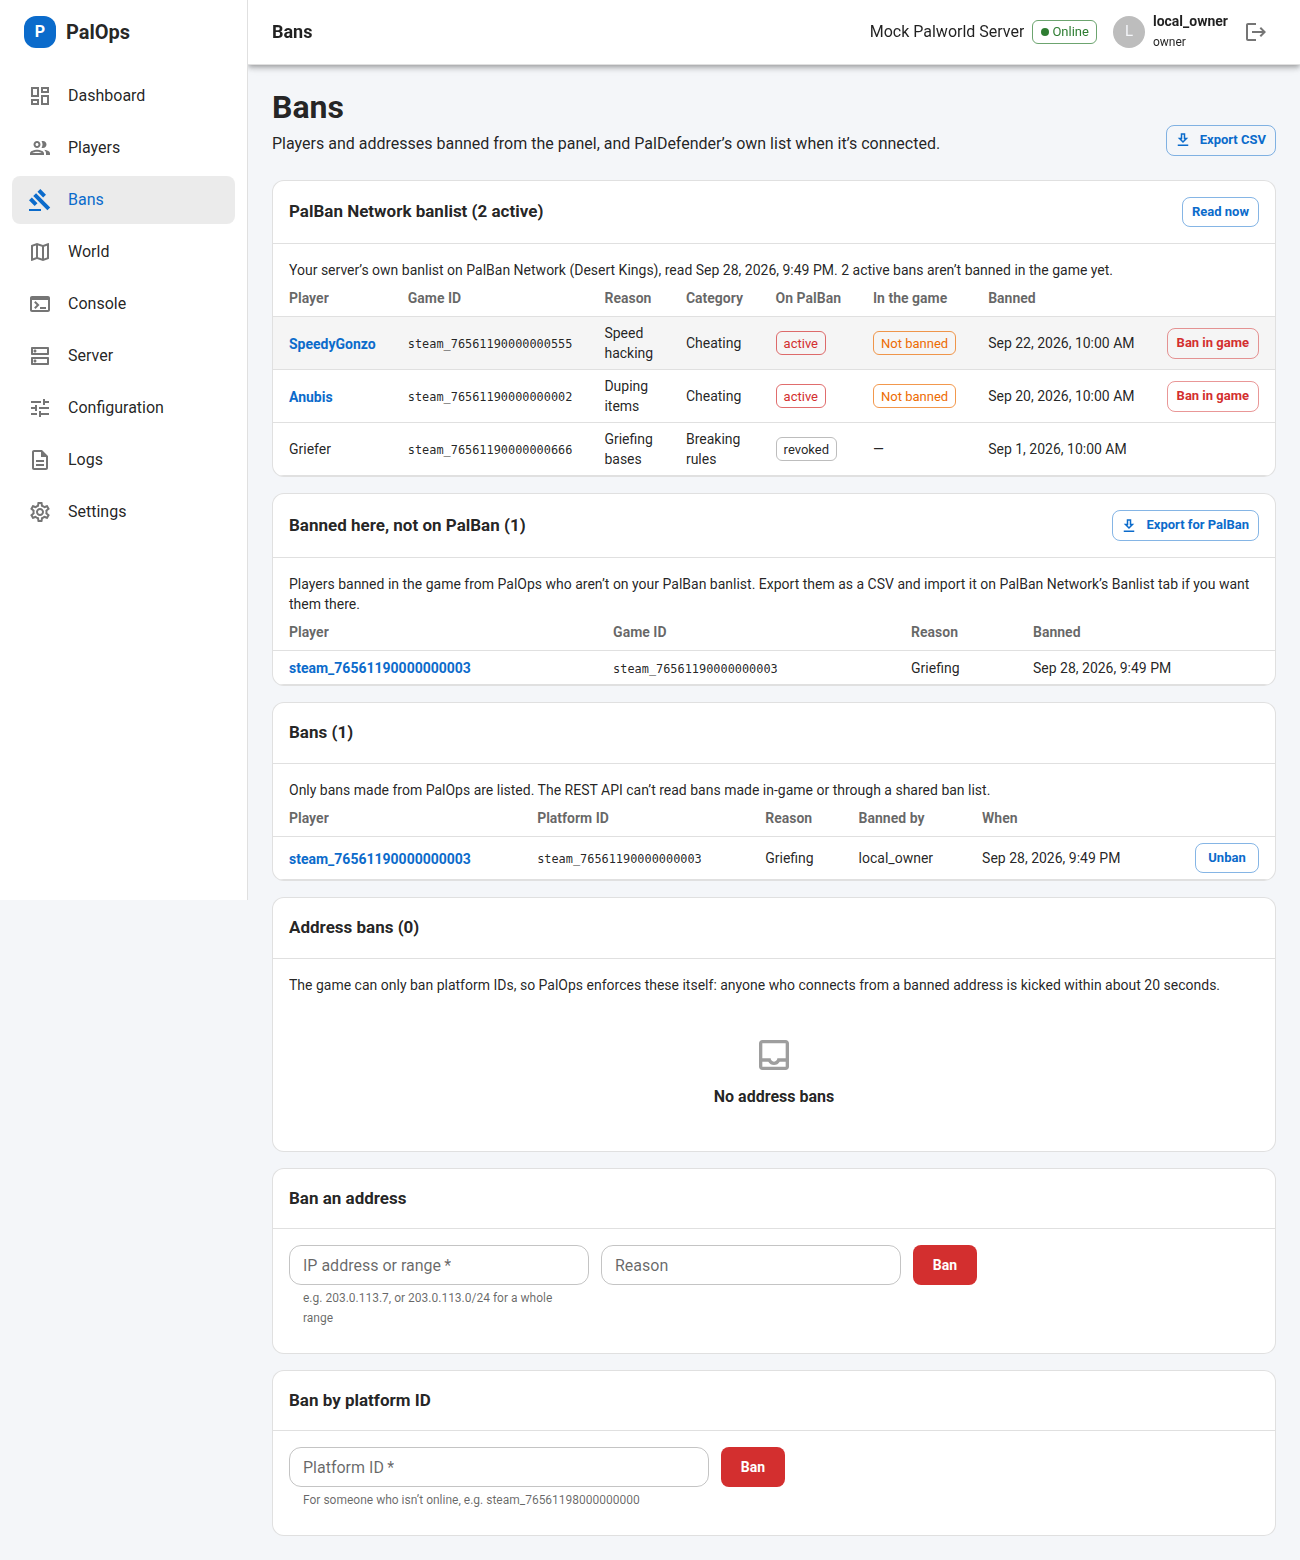
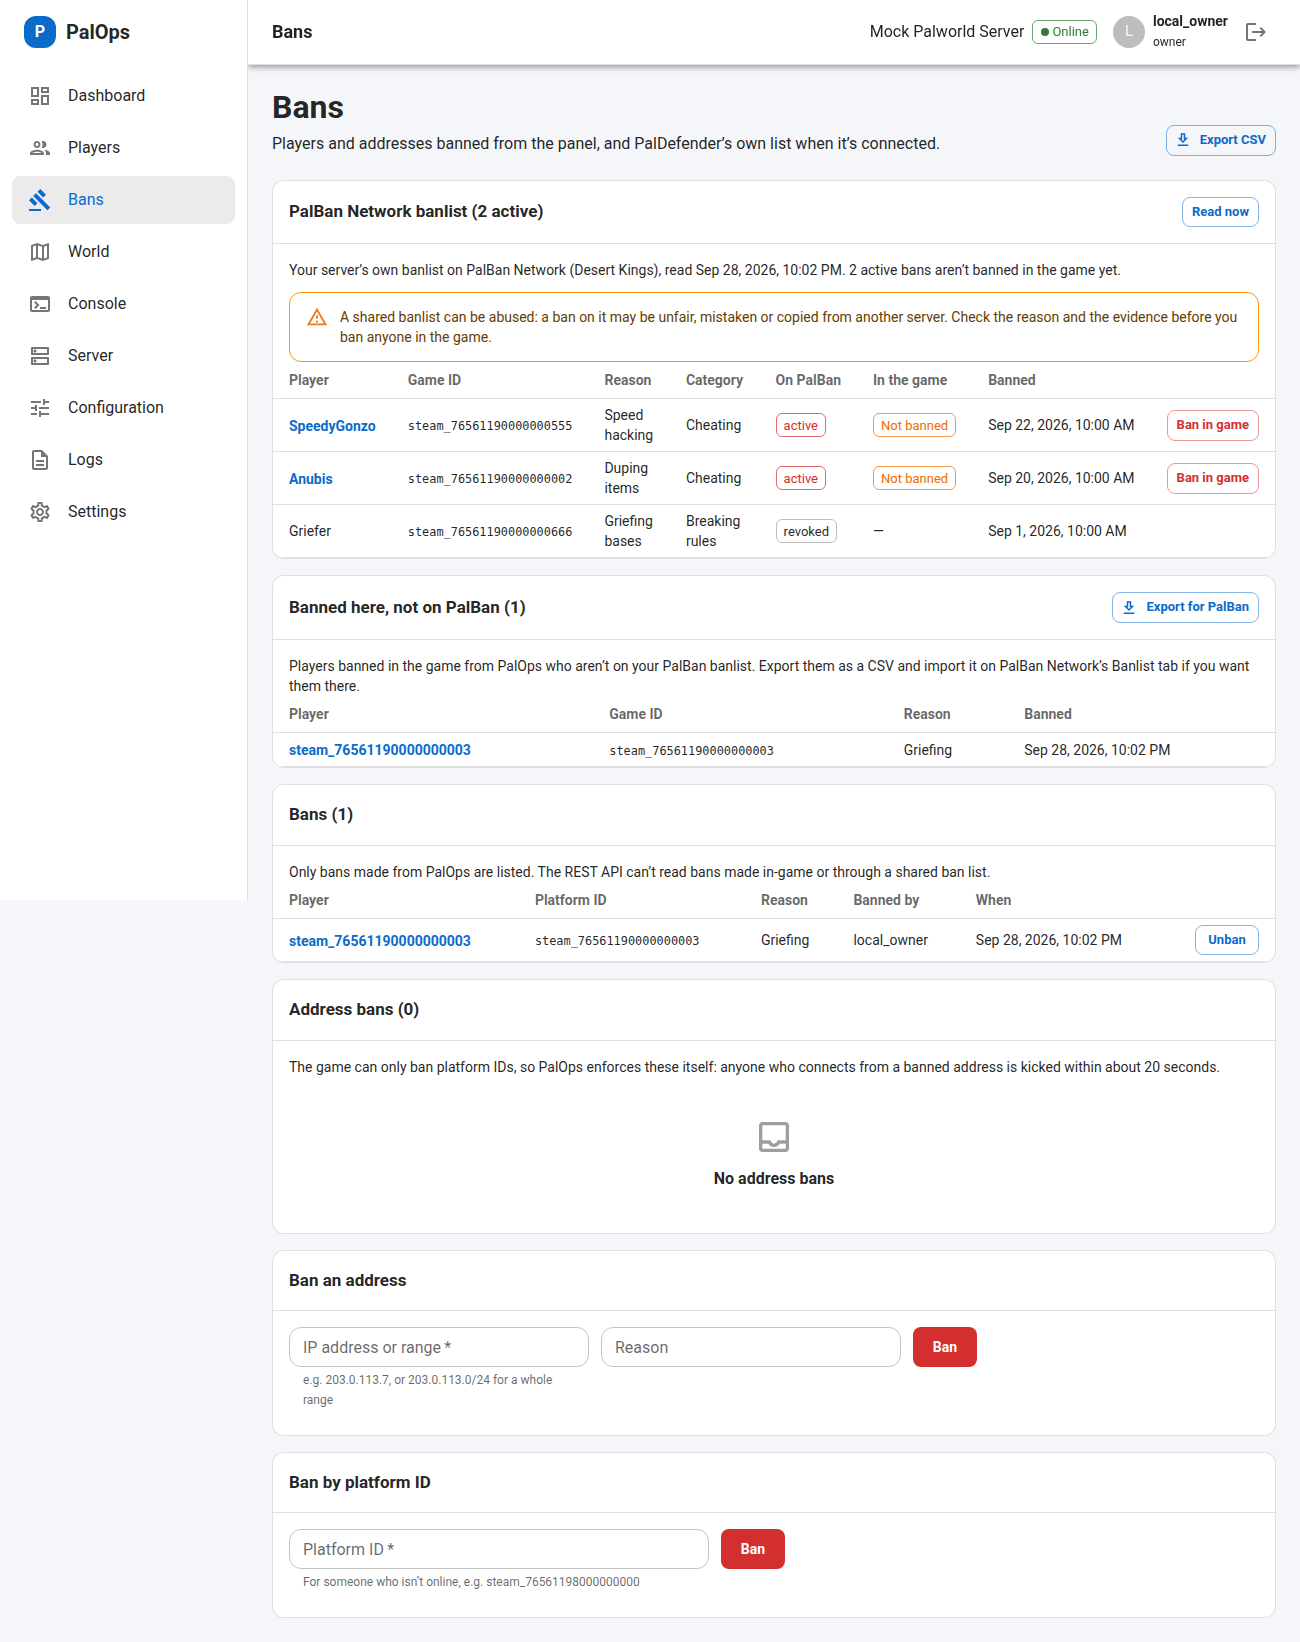
PalBan: say the risks of a shared banlist on the settings page, the Bans page and in the docs
A shared banlist can be abused, and whoever controls one has power over many
servers. Screenshots refreshed, plus PalBan Network's log import and notices.

Claude-Session: https://claude.ai/code/session_01PZSua6b83DqNc5gQ83ZFjQ

diff --git a/web/src/components/PalBan.tsx b/web/src/components/PalBan.tsx
@@ -1,4 +1,5 @@
 import Alert from '@mui/material/Alert';
+import AlertTitle from '@mui/material/AlertTitle';
 import Button from '@mui/material/Button';
 import Chip from '@mui/material/Chip';
 import Divider from '@mui/material/Divider';
@@ -19,6 +20,30 @@ import { DataTable } from './DataTable';
 import { EmptyState, ErrorState, Loading, Mono, Section } from './common';
 import { ExportButton, PlayerName } from './PlayerBits';
 import { useToast } from './Toast';
+
+/** What a shared banlist gets wrong or can be used for; said wherever PalBan bans are shown. */
+function PalBanRisks({ compact = false }: { compact?: boolean }) {
+  if (compact) {
+    return (
+      <Alert severity="warning" variant="outlined" sx={{ mx: 2, mt: 1.5 }}>
+        A shared banlist can be abused: a ban on it may be unfair, mistaken or copied from another server. Check the reason and the evidence before you ban anyone in the game.
+      </Alert>
+    );
+  }
+  return (
+    <Alert severity="warning" variant="outlined">
+      <AlertTitle>Know the risks of a shared banlist</AlertTitle>
+      <ul style={{ margin: 0, paddingLeft: 18 }}>
+        <li>It can be abused. Anyone with access to a team can add a ban that is unfair or built on false evidence, and if other teams copy it, that player can be locked out of servers that never looked into it.</li>
+        <li>
+          Whoever controls a shared list has power over it. A single party running one could lock a person out of many servers at will. That is why nothing here happens by itself: a ban on PalBan only becomes a ban in the game
+          when someone on your team confirms it.
+        </li>
+        <li>A ban or report from another server is a lead, never proof. Check the reason and the evidence, and hear the player out, before you act on it.</li>
+      </ul>
+    </Alert>
+  );
+}
 
 interface Form {
   enabled: boolean;
@@ -81,6 +106,7 @@ export function PalBanSettingsTab() {
               PalBan Network is a shared banlist for Palworld servers. Switch this on to compare your server’s PalBan banlist with what is banned in the game, see what other servers
               found about a player, and let PalBan know about joins and bans made here. Nothing is banned because another server did: reports are leads for your team to review.
             </Typography>
+            <PalBanRisks />
             <FormControlLabel control={<Switch checked={form.enabled} onChange={(e) => setForm({ ...form, enabled: e.target.checked })} />} label="Use PalBan Network" />
             <TextField label="PalBan Network address" placeholder="https://palban.net" value={form.baseUrl} onChange={(e) => setForm({ ...form, baseUrl: e.target.value })} required />
             <TextField
@@ -172,6 +198,7 @@ export function PalBanBans({ onOpen }: { onOpen: (userId: string) => void }) {
           Your server’s own banlist on PalBan Network{status.serverName ? ` (${status.serverName})` : ''}
           {status.lastSyncAt ? `, read ${formatDateTime(status.lastSyncAt)}` : ''}. {status.notInGame > 0 ? `${status.notInGame} active ${status.notInGame === 1 ? 'ban isn’t' : 'bans aren’t'} banned in the game yet.` : 'Everything active is banned in the game.'}
         </Typography>
+        <PalBanRisks compact />
         {status.error && (
           <Alert severity="warning" sx={{ mx: 2, mt: 1 }}>
             {status.error}

diff --git a/docs/palban.md b/docs/palban.md
@@ -8,6 +8,17 @@ until an owner turns it on in **Settings → PalBan Network**, and while it's of
 confirms it, one player at a time. A report from another server is a lead for your team, never a ban. This is deliberate: a shared banlist that bans automatically
 lets one person's ban, or one mistake or abuse, reach many servers that never chose it, and the server owner should stay the one who decides. Nothing PalOps sends can ban anyone on PalBan either.
 
+## Know the risks
+
+A shared banlist has real downsides, and they are why some server tool maintainers have chosen not to build one into their tools:
+
+- **It can be abused.** Anyone with access to a team can add a ban that is unfair or built on false evidence, and if other teams copy it, that player can be locked out of servers that never looked into it.
+- **Whoever controls a shared list has power over it.** A single party running one could lock a person out of many servers at will. That is why this integration never acts by itself, and why each team decides what to
+  do with a ban.
+- **A ban or report from another server is a lead, never proof.** Check the reason and the evidence, and hear the player out, before you act on one.
+
+PalOps shows these on the settings page and on the Bans page, next to the PalBan banlist.
+
 ## Setting it up
 
 1. On PalBan Network, open your server's **Integrations** tab, choose **Another tool**, and connect. Copy the key (`pbn_...`); it's shown once.

diff --git a/README.md b/README.md
@@ -259,7 +259,7 @@ player inventories, pals, guilds and bases, and let admins give items and pals, 
 
 [PalBan Network](https://github.com/Faire-sdk/PalBanNetwork) shares banlists between Palworld servers. PalOps can read your server's PalBan banlist next to the game's (banning in the game
 one player at a time, after you confirm), export local bans for PalBan to import, look players up on the network, and report joins and bans. Reports from other servers are leads,
-never bans. Off by default. See [docs/palban.md](docs/palban.md).
+never bans. A shared banlist can be abused and gives whoever runs it power over many servers, so read the risks in the doc first. Off by default. See [docs/palban.md](docs/palban.md).
 
 ### Keep the API private
 
